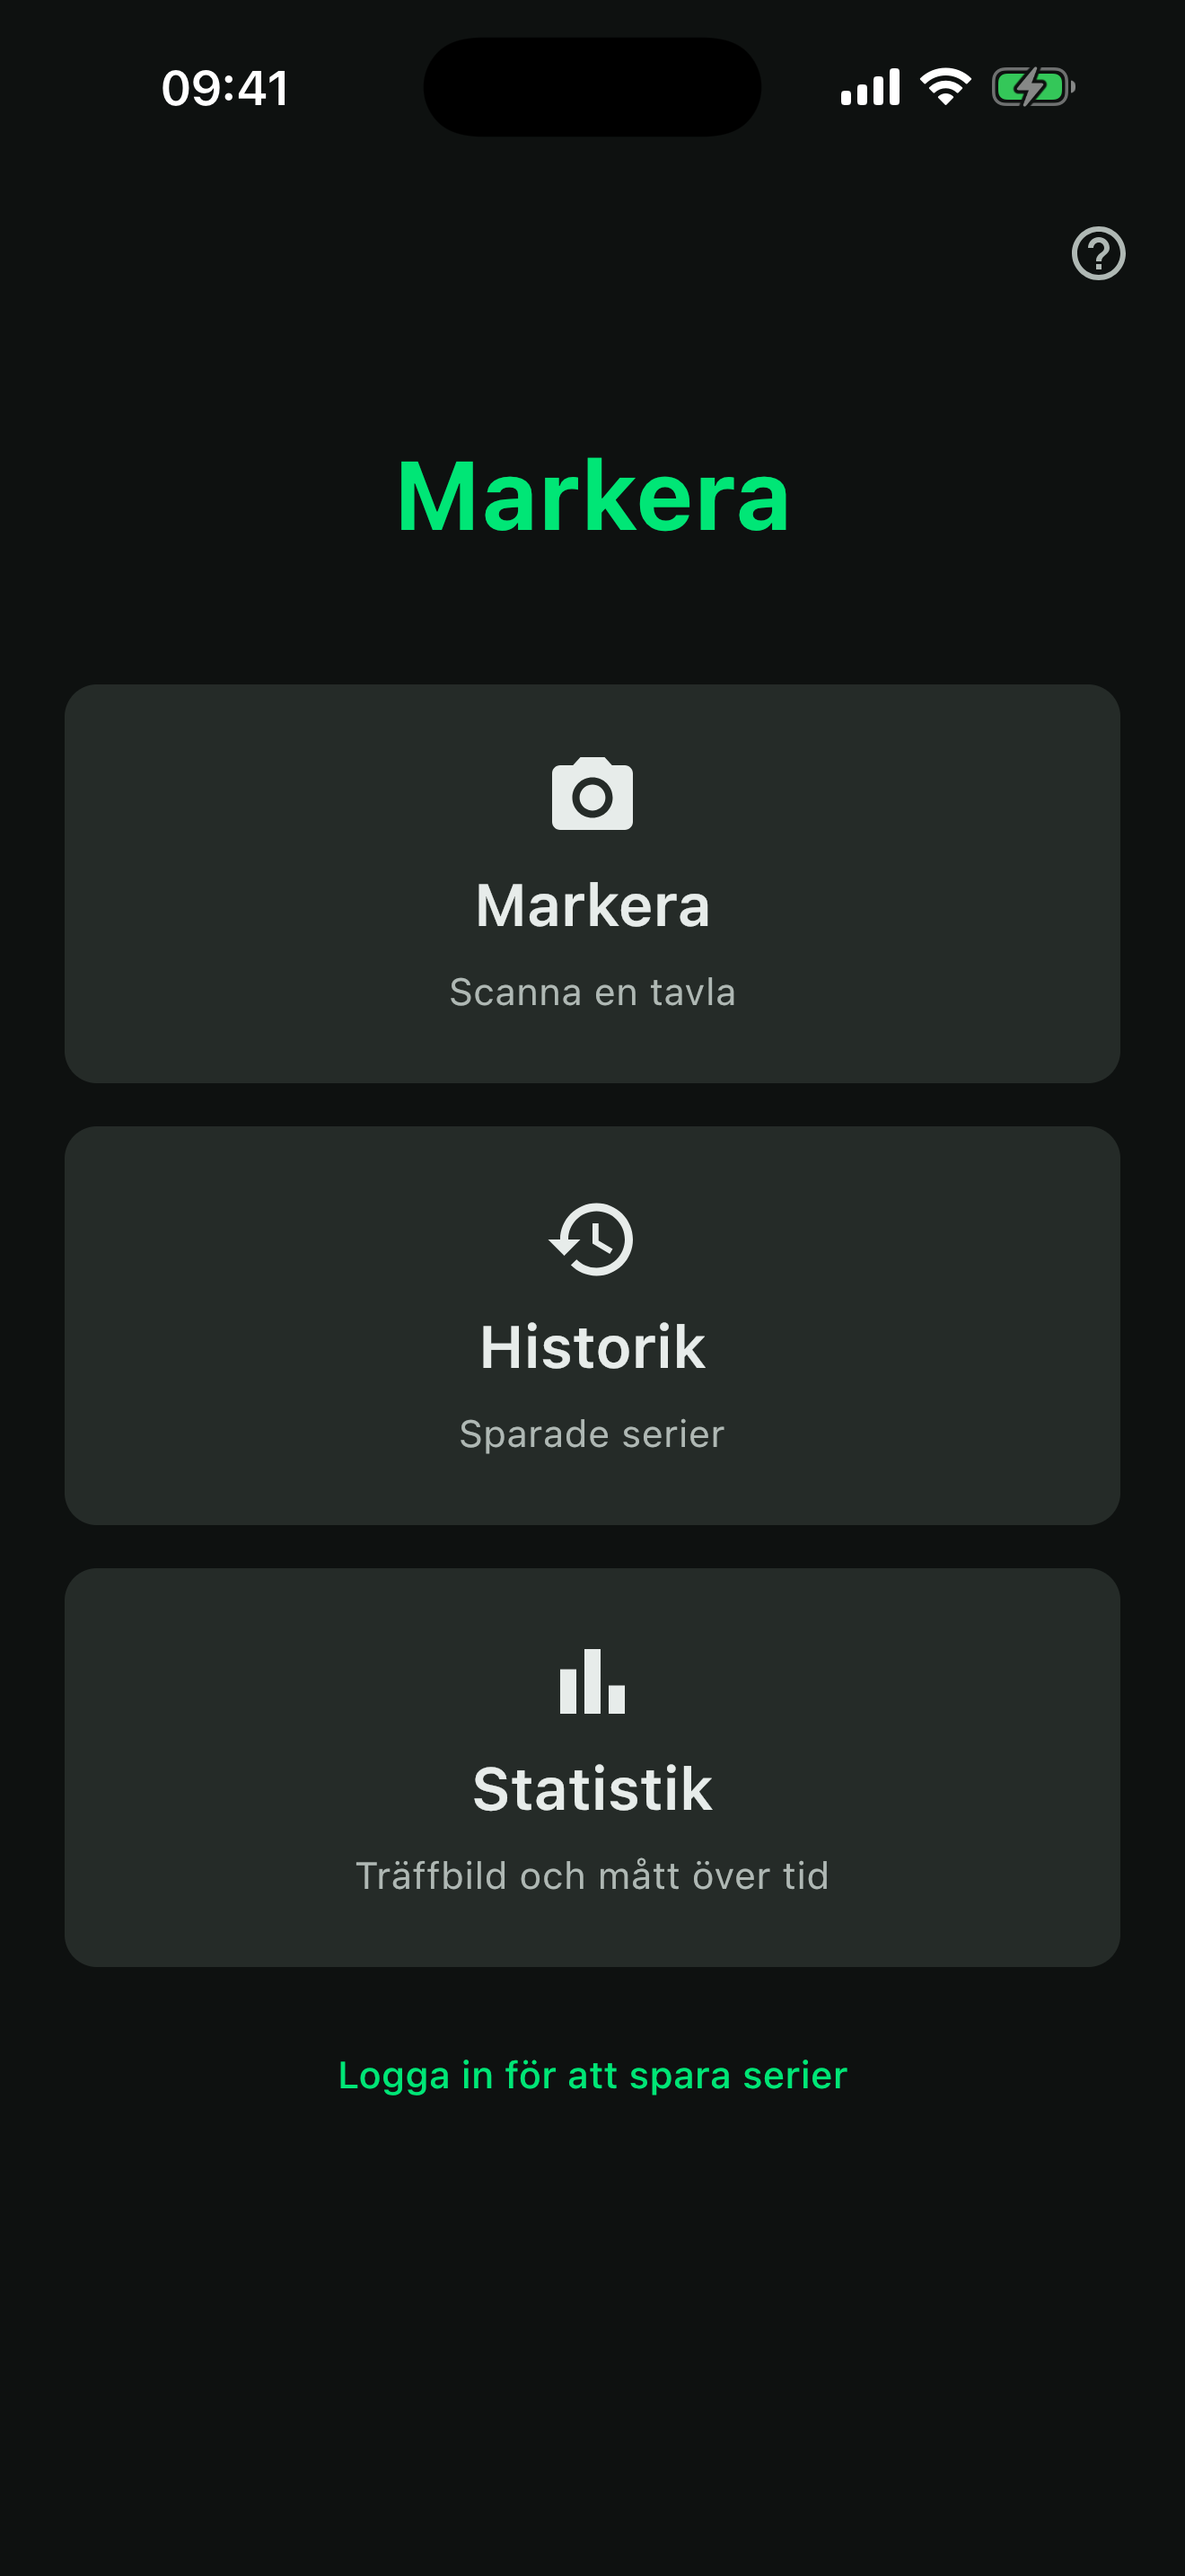
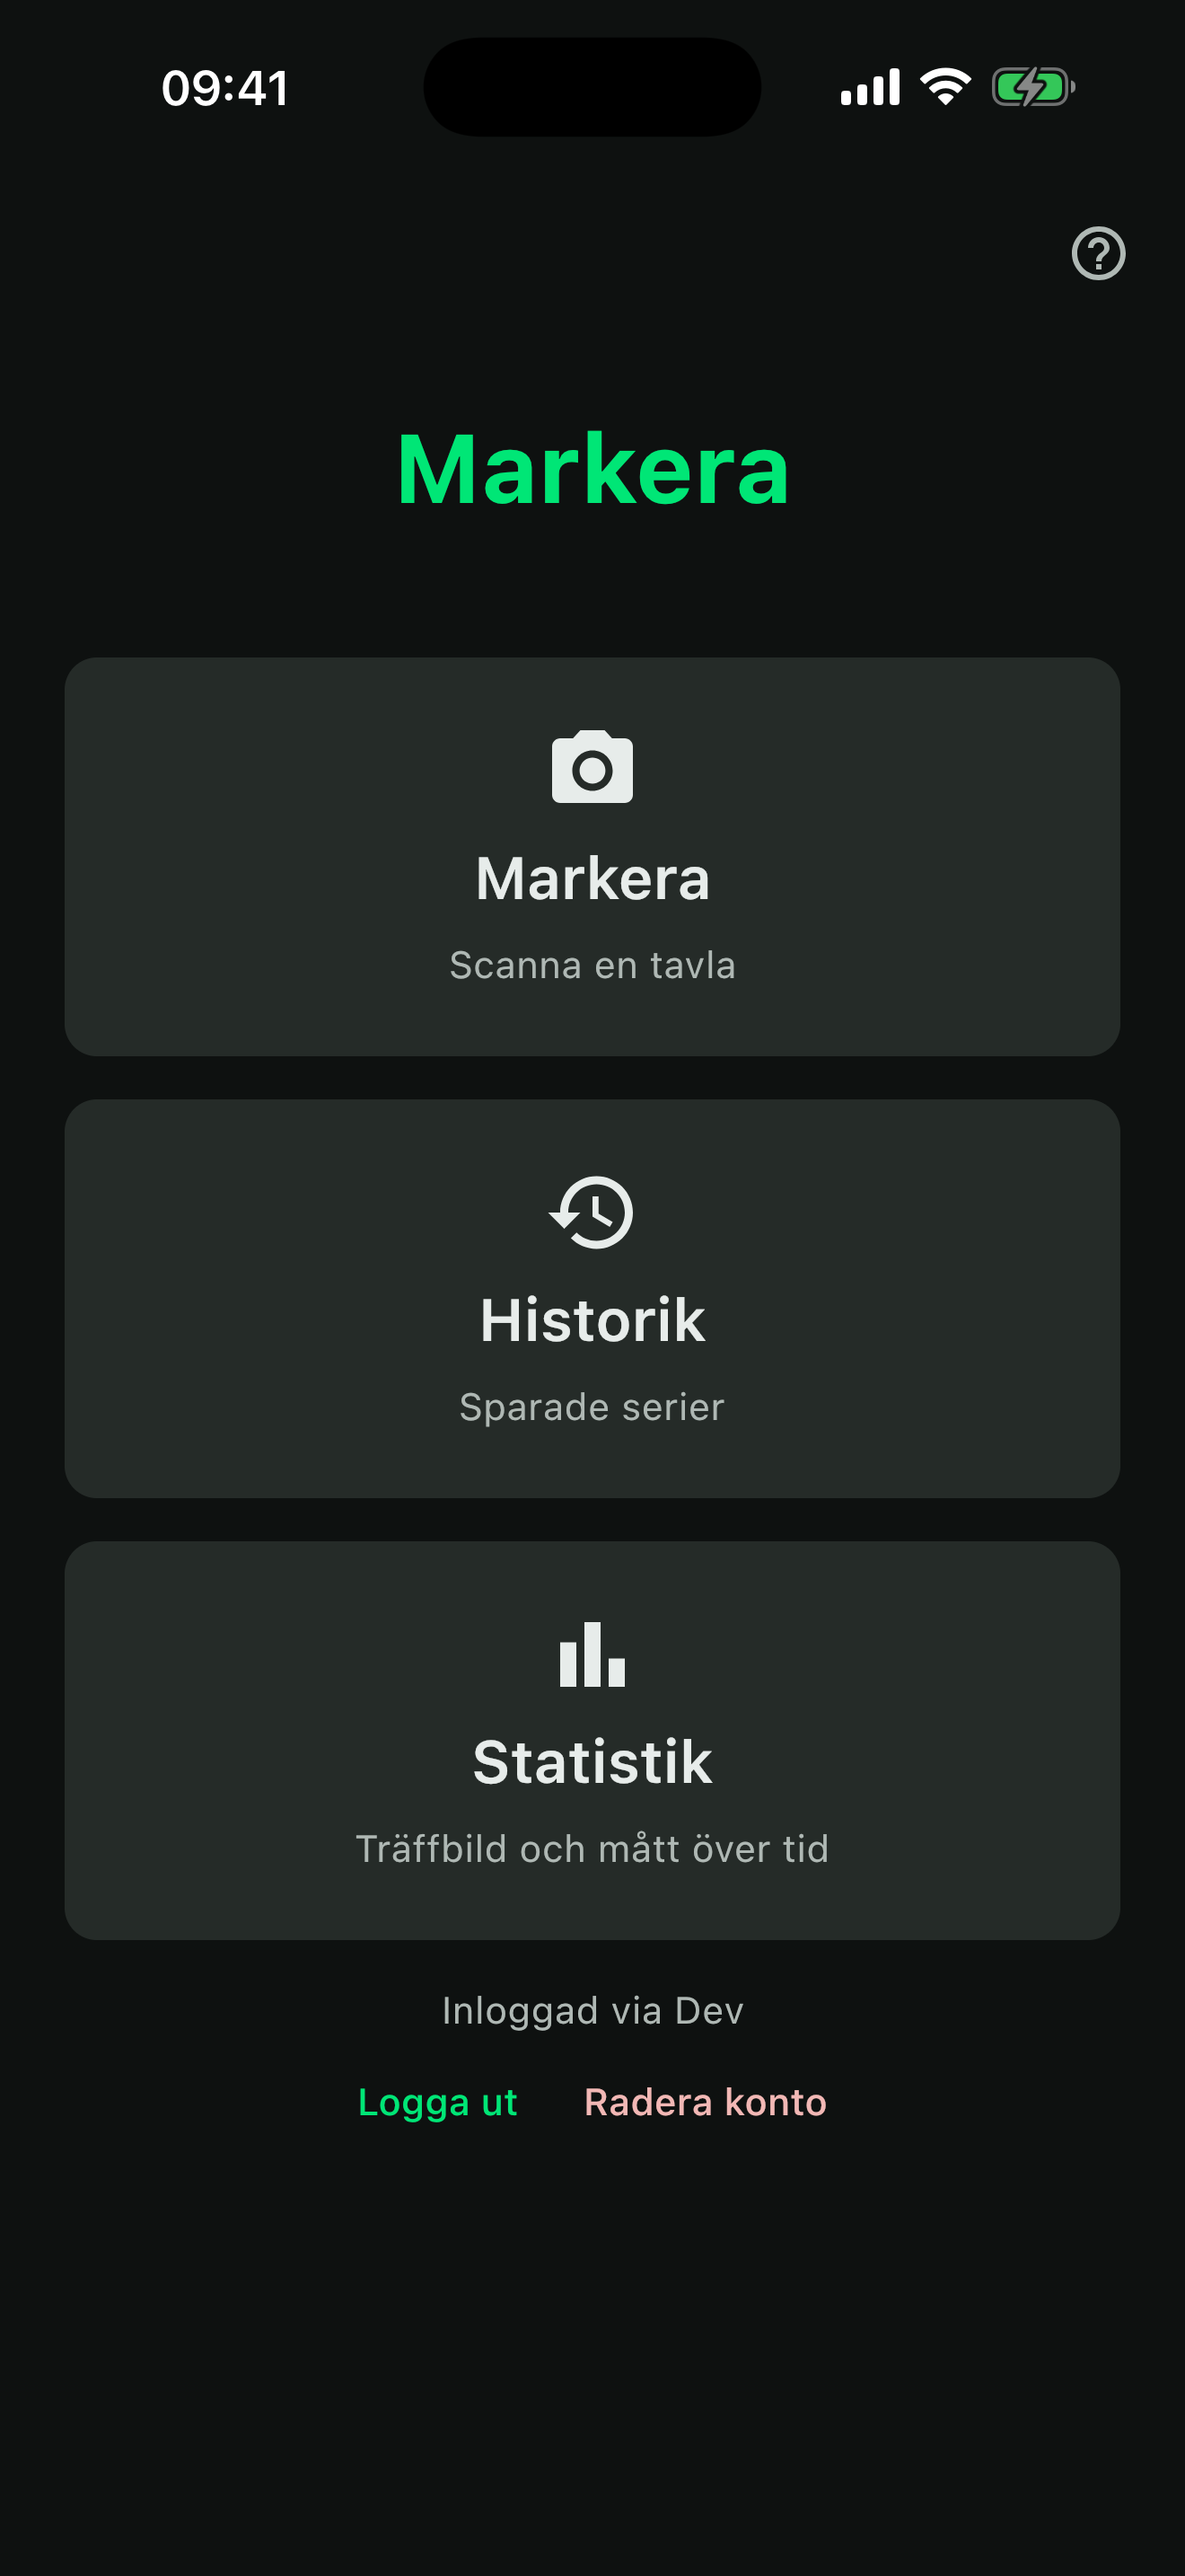
App Store screenshots: retake all four on 1.7.0
Taken on the iPhone 17 Pro Max simulator (1320x2868) against the dev
backend, so they show the shipped UI: Historik with the new day grouping
expanded, a series detail, and the Statistik Tavla tab. Flattened to RGB
because App Store Connect rejects PNGs with an alpha channel.

Claude-Session: https://claude.ai/code/session_01T2fnEK7bqfhXzvSH96ng2L

Changed region(s): [[0.0621, 0.2483, 0.9629, 0.8379], [0.3417, 0.1552, 0.6833, 0.2172]]

diff --git a/PLAN.md b/PLAN.md
@@ -216,7 +216,7 @@ Calibers: `22lr, 32, 38, 357, 45, 44, 9mm, 10mm` plus `-` (none, default).
 | 94 | Statistik: move Kaliber and Datum back below the tabs — 91 looked bad on the phone (user 2026-09-16); the state stays hoisted in StatsScreen, so the two tabs keep sharing the same filter | done 2026-09-16 — gate 187 green, iOS links, phone-checked 2026-09-16 |
 | 95 | Historik day header: "1 serier" should read "1 serie" (seen on the phone 2026-09-16) | done 2026-09-16 — gate green, iOS links, phone-checked 2026-09-16 (two one-series days read "1 serie") |
 | 96 | Help text: the Radera item on the series detail screen still said the bin "tar bort hela serien från ditt konto", which stopped being true with task 90 — it now says the series leaves the app while the server keeps it, its holes and its photo until the account is deleted (user 2026-09-16) | done 2026-09-16 — gate 190 green, iOS links, phone-checked 2026-09-16 (help sheet on a series) |
-| 97 | Release 1.7.0 (10) (`/release` 2026-09-16) — notes written against **1.5.0**, the last public release (1.6.0 (9) reached the internal track but was never promoted), so they cover the new ring detection, typed scores, the 6/7 viewfinder labels, Historik day grouping, the Statistik tabs/filters, the icon and the five-hole cap; iOS marketing version + TestFlight notes bumped alongside; the four Play phone screenshots retaken on 34282ee3, and both tablet sets regenerated from them the way the repo has always built them (the phone shot pasted unscaled on an app-background canvas: 7" 1620x2880 at x=90, 10" 2160x3840 at 360,480) — no tablet and no emulator needed; the iOS screenshots are still from 2026-09-10 | done 2026-09-16 — AAB built and signed (139 MB), commit 832b729, tag v1.7.0 pushed; the user ran both Play tasks (the classifier denies my uploads): build 10 is in track 'internal' and the four new phone screenshots are live on the sv-SE listing. Promotion to production is still a manual step in Play Console |
+| 97 | Release 1.7.0 (10) (`/release` 2026-09-16) — notes written against **1.5.0**, the last public release (1.6.0 (9) reached the internal track but was never promoted), so they cover the new ring detection, typed scores, the 6/7 viewfinder labels, Historik day grouping, the Statistik tabs/filters, the icon and the five-hole cap; iOS marketing version + TestFlight notes bumped alongside; the four Play phone screenshots retaken on 34282ee3, and both tablet sets regenerated from them the way the repo has always built them (the phone shot pasted unscaled on an app-background canvas: 7" 1620x2880 at x=90, 10" 2160x3840 at 360,480) — no tablet and no emulator needed; the four App Store screenshots retaken the same day on the iPhone 17 Pro Max simulator (1320x2868, `idb ui tap` in points + `simctl io screenshot`, Debug build against the dev backend) and flattened to RGB, since App Store Connect rejects PNGs with an alpha channel | done 2026-09-16 — AAB built and signed (139 MB), commit 832b729, tag v1.7.0 pushed; the user ran both Play tasks (the classifier denies my uploads): build 10 is in track 'internal' and the four new phone screenshots are live on the sv-SE listing. The regenerated tablet sets and the refreshed App Store screenshots are committed but not pushed to the stores yet: the user owes one more `publishReleaseListing` for the tablet sets, and `bundle exec fastlane metadata` from `iosApp/` on the Mac for the App Store text + screenshots. Promotion to production is still a manual step in Play Console |
 | 9 | HTTPS for the backend (queued 2026-09-06 as "if the backend ever leaves the LAN") | done 2026-09-07 — `https://markera.duckdns.org` via the Mac mini's host Caddy (block appended over ssh, backup `Caddyfile.bak-20260907`); container bound to 127.0.0.1:8090; app default URL switched, cleartext config removed |
 
 ## API (server)
